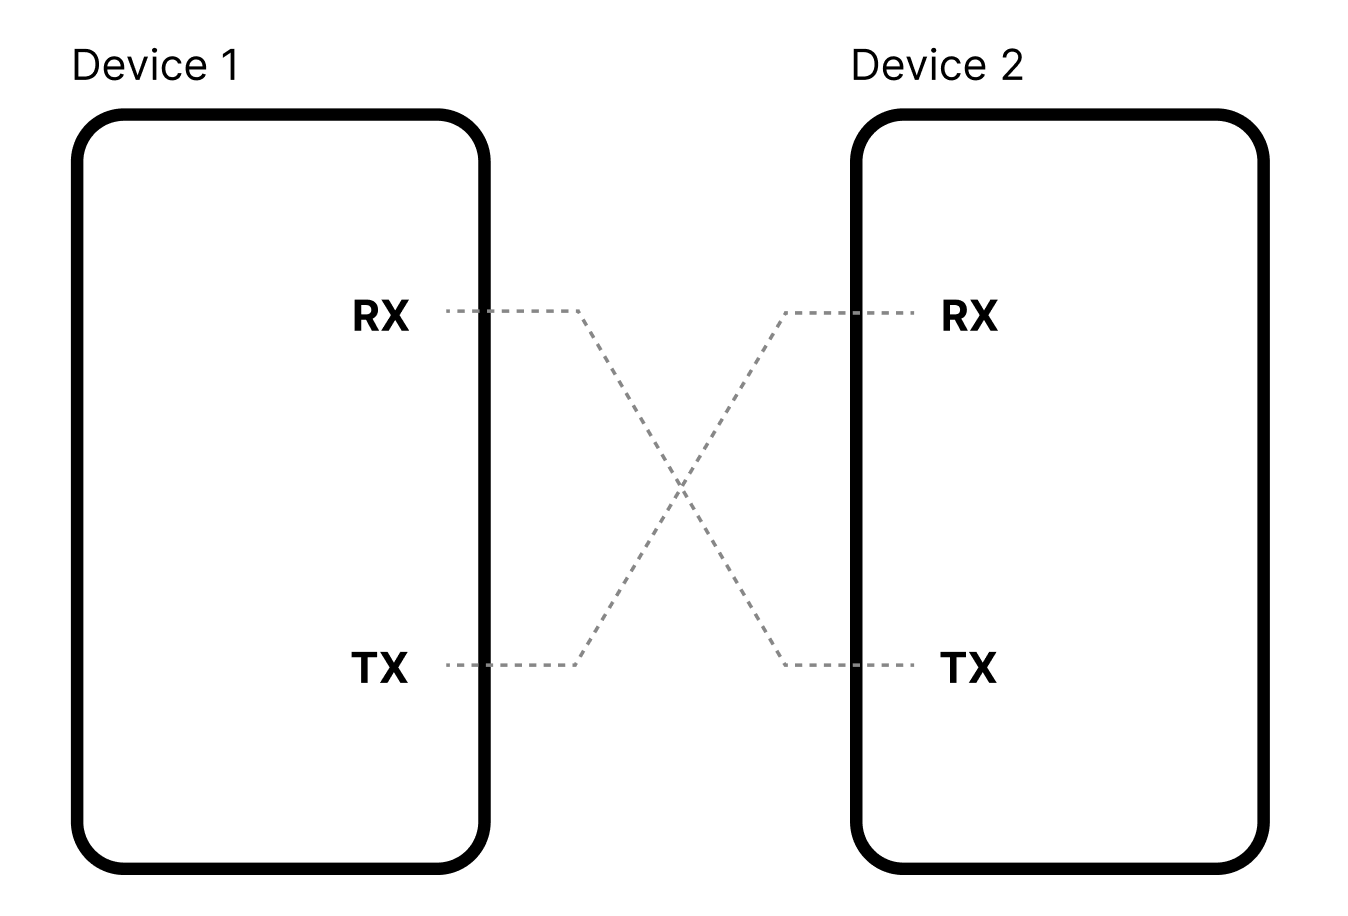
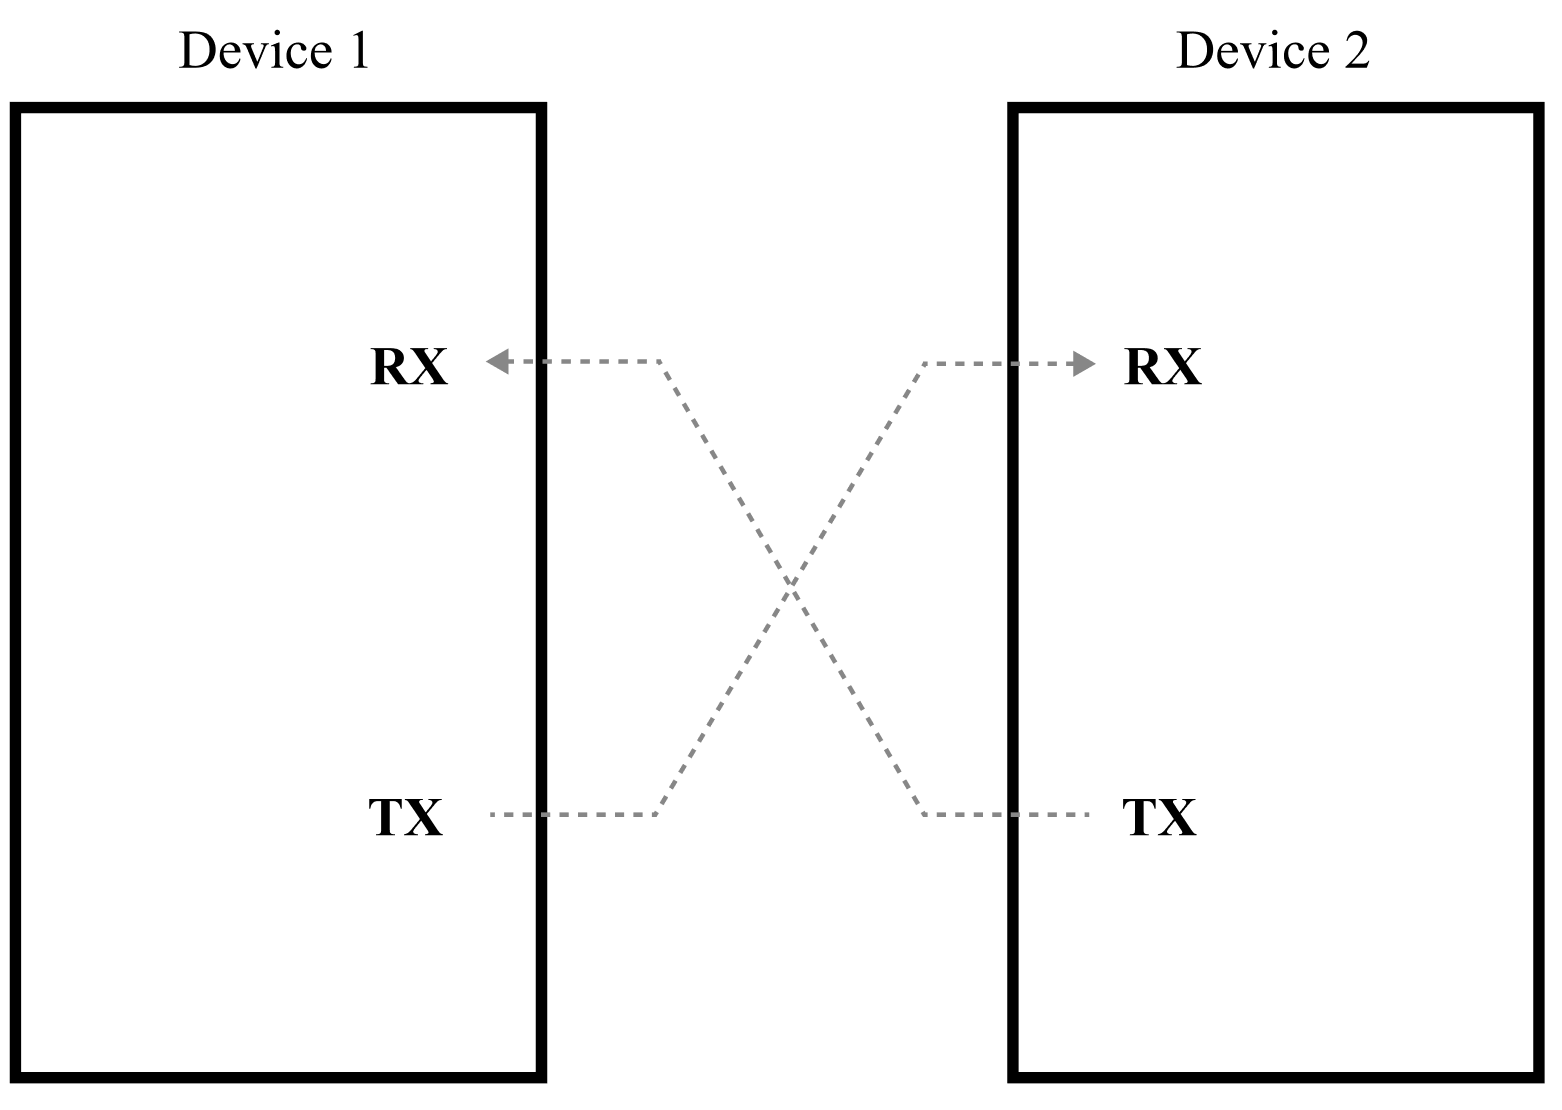
Updates from Overleaf

diff --git a/dissertation/l4proj.tex b/dissertation/l4proj.tex
@@ -28,7 +28,6 @@
 %==============================================================================
 %% ABSTRACT
 \begin{abstract}
-    \textbf{THIS IS UNFINISHED}
 
     The personal usage of remote embedded devices is a growing area in engineering allowing for anybody to get started building robotics systems at home or even develop skill sets in programming and electronic engineering. A big name in this scene is Arduino a product which allows hobbyists to build and design systems to suit personal project needs; The Espruino project takes this in a different direction by utilising a JavaScript interpreter which aims to bring remote embedded systems programming to the web. This project intends to improve the development experience of remote embedded devices by refining the process and allowing users to focus more on their ideas and less on the semantics required to implement them. To achieve this the project introduces many packages providing functionality such as easy device connection[ADD LINK], peer-to-peer[ADD LINK] connection for mobile device inputs to be used, and the refined syntax to allow developers to get started regardless of skill or prior knowledge with wide and detailed documentation to avoid confusion when developing. In addition to this to further ease development, a CLI tool has been developed to create projects preset with all the functionality a beginner user could need, setting anybody up for programming Espruino devices, an activity which had no clear direction before of how to be done. By utilising user studies throughout the project a variety of users from different experience levels have been considered during the development process allowing for the project to be as accessible as possible.
 
@@ -82,21 +81,36 @@ The area of remote embedded systems has seen significant growth in recent years 
 \\ \\
 An alternate solution to this is presented by Espruino devices, which make use of JavaScript, a language that is more accessible to a broader range of developers. The usage of JavaScript promotes learning a language which has a wide variety of use cases such as web development, machine learning and even mobile apps. Espruino presents a reduced entry barrier and eliminates the requirement to learn a less than beginner friendly low level language such as C/C++, which can be daunting for some and for most will not translate to other aspects of their coding career. This makes it easier for developers to commence with remote embedded systems and begin constructing their projects.
 \\ \\
-Even though using Espruino devices can tackle some of the issues linked to traditional remote embedded systems, it still gives a restricted comprehension of JavaScript and its fundamental technologies. This can result in a limited skill set that is not readily transferable to other areas of software engineering.
+Even though using Espruino devices can tackle some of the issues linked to traditional remote embedded systems, it still gives a restricted comprehension of JavaScript and its fundamental technologies as developers are not getting exposed to aspects of the language outside of the native language. This can result in a limited skill set that is not readily transferable to other areas of software engineering.
 \\ \\
-This project aims to tackle these challenges by providing developers with a cutting-edge JavaScript-based platform for building their remote embedded systems. By utilizing contemporary JavaScript, developers will gain a deeper understanding of the language and its features, as well as acquire in-demand skills that can be applied to other areas of software engineering.
+This project aims to tackle these challenges by providing developers with a modern JavaScript-based platform for building their remote embedded systems. By utilizing contemporary JavaScript, developers will gain a deeper understanding of the language and its features, as well as acquire in-demand skills that can be applied to other areas of software engineering.
 \\ \\
-This project aims to help prepare future programmers and software engineers for work within the embedded systems allowing them to achieve working systems as well as allowing for the development of in-demand skills through the usage of modern JavaScript with easy access to work with any modern JavaScript of their choice.
+This project aims to help prepare future programmers and software engineers for work within the embedded systems allowing them to achieve working systems as well as allowing for the development of in-demand skills through the usage of modern JavaScript with easy access to work with any modern JavaScript of their choice. By incorporating embedded device development into the learning process beginner programmers are able to engage with tangible creations whilst introducing them into the idea of bringing in other sectors of industry into their programming.
 
 \section{Aims}
 
 \text This effort will create a collection of packages aimed at lowering the threshold for individuals looking to get into programming in the remote embedded systems area, yet still offering benefits for experienced coders through its streamlining of the current Espruino implementation. Additionally, these modules are constructed with a strong emphasis on web technologies, providing both novice and seasoned developers with an opportunity to deepen their understanding of current web technologies while working on their embedded systems.
-\subsubsection{Goals}
-\begin{itemize}
-    \item Provide a platform for beginner programmers to easily get started with embedded systems programming.
-    \item \textbf{PUT MORE POINTS IN HERE AIM FOR AROUND 5}
-\end{itemize}
-
+\subsection{Goals}
+\text From the aims stated above the problem is broken down into the following focal points.
+\\
+\subsubsection{Beginner friendly platform} \hfill\\
+\text Provide a platform for beginner programmers to easily get started with embedded systems programming without advanced programmers being deterred.
+\\
+\subsubsection{Easy browser to device communication} \hfill\\
+\text Introduce the idea of browser to device communication enabling programmers to have further control over input to devices by allowing them to utilise devices such as mobile phones, laptops or tablets as means to control their devices even using the device as a compliment to the web applications.
+\\
+\subsubsection{Reduce development time} \hfill\\
+\text Allow developers to focus more on their ideas and less on the semantics of implementing them or navigating bad documentation or cryptic method naming schemes by following industry standard conventions and language specific rules alongside an in-depth and well populated documentation site.
+\\
+\subsubsection{Bring everything into one place} \hfill\\
+\text Remove the requirement for developers to worry about compatibility with third party dependencies by providing a feature rich ecosystem with easy extension for more experienced developers.
+\\
+\subsubsection{Easy creation sharing}\hfill\\
+\text Provide a service which allows developers to easily show off their creations; allow users to host their projects without cost, hassle or knowledge in web servers.
+\\
+\subsubsection{Flexibility in development style}\hfill\\
+\text Build an ecosystem which works regardless of how the developer decides to work by supporting package importing through all available avenues as well as documentation/demos which show off this functionality to allow for no confusion in the process.
+\\
 
 
 %==================================================================================================================================
@@ -107,39 +121,25 @@ This project aims to help prepare future programmers and software engineers for 
 Learning how to program is an increasingly popular avenue for young professionals in recent years due to the market demand for software engineers and appeal of working in a creative, challenging and constantly evolving field; because of this increase in desire to learn how to code many people are funneled into the following avenues each with their own advantages and drawbacks.
 
 \subsection{Formal Teaching of programming}
-Many students find themselves learning how to program for the first time during a degree at university.
+Many students find themselves learning how to program for the first time during a degree at university. Within the University of Glasgow the current method of teaching provides students with an intricate understanding of programming without a proper understanding of how programming results in an end software product. This approach to programming is aimed towards providing students with enough knowledge to understand the following course content such as algorithms and data structures.
 \begin{itemize}
-    \item how is programming currently taught at universities
-    \item very theoretical
-    \item little focus how the languages are used within a working environment
     \item Maybe a quick survey surrounding if students know how to turn their programming language knowledge into working products or how learning for example python relates to something like a web application.
 \end{itemize}
 
 
 \subsection{Code boot camps / online courses}
-This section is a maybe, its worth mentioning other avenues taken by programmers.
-\begin{itemize}
-    \item highly specialised, (front-end, back-end) 
-    \item focus on job ready skills.
-    \item heavily web focused.
-    \item avoids a lot of theoretical.
-    \item can result in people thinking they know how to program because theyve copied word for word from a tutorial.
-\end{itemize}
+On the other side of the spectrum many aspiring software engineers take the route of code "boot camps" such as \href{https://www.freecodecamp.org/}{freeCodeCamp} or \href{https://www.schoolofcode.co.uk/}{School of Code}. These intensive courses have the goal of producing work ready skills whilst avoiding theoretical skills that help programmers gather a better understanding of how the underlying programs work. These courses are usually highly specialised and web focuses meaning developers can potentially finish with a lack of transferable skills harming the ability for developers to transfer to new technologies and grow as a developer. An issue that comes with code boot camps are programmers who have followed tutorials word for word without absorbing the content itself resulting in people who believe they know how to develop systems without any real idea.
 
 \subsection{The job market}
-\begin{itemize}
-    \item What the market is looking for (maybe a linkedin study)
-    \item something about self learning
-\end{itemize}
+The job market for software engineers is an ever evolving market which rewards a developers skill to constantly learn on the job. Despite this languages such as JavaScript remain within the most used within the area within the \href{https://survey.stackoverflow.co/2022/#technology-most-popular-technologies}{Stack Overflow Developer Survey} we can see current trends. With an ever evolving job market it is important that anybody learning to program is able to understand the fundamentals of systems through the construction of systems whilst also understanding why these systems work at the lower level.
 
 \section{Espruino Devices}
 \text 
-The Espruino micro-controller provides an innovative solution for individuals seeking to materialise their electronics project aspirations. With a JavaScript interpreter and in-built amenities such as WiFi and Bluetooth, this device makes it effortless for individuals of diverse programming proficiency to dive in. The Espruino ecosystem caters to hobbyists and students eager to learn about electronics and programming. These micro-controllers can be blended seamlessly with other hardware and software systems, opening up a world of possibilities for electronics projects.
+The \href{https://www.espruino.com/}{Espruino micro-controller} provides an innovative solution for individuals seeking to materialise their electronics project aspirations. With a JavaScript interpreter and in-built amenities such as WiFi and Bluetooth, this device makes it effortless for individuals of diverse programming proficiency to dive in. The Espruino ecosystem caters to hobbyists and students eager to learn about electronics and programming. These micro-controllers can be blended seamlessly with other hardware and software systems, opening up a world of possibilities for electronics projects.
 
     
 \subsection{UART}
-\text Espruino devices communicate with the browser by utilising the UART protocol, or Universal Asynchronous Receiver/Transmitter, a widely used communication protocol in the world of micro-controllers and embedded systems. It doesn't require a fixed clock rate between the sender and receiver and instead uses start and stop bits for data transmission synchronization. \textbf{[EXPAND ON THIS AND INCLUDE MORE ABOUT HOW IT ACTUALLY WORKS]}
-
+\text Espruino devices communicate with the browser by utilising the UART protocol, or Universal Asynchronous Receiver/Transmitter, a widely used communication protocol in the world of micro-controllers and embedded systems. It doesn't require a fixed clock rate between the sender and receiver and instead uses start and stop bits for data transmission synchronization. UART works by utilising a transmission control line (TX) and a reception control line (RX); UART will begin by sending a start bit from TX to RX to initiate the start of a data transfer from here data is transferred bit by bit over a single data line starting with the least significant bit (LSB) and finishing with the most significant bit (MSB) following this a stop bit is sent to signal data transfer has finished. This is detailed in figure \ref{fig:UART}.
 
 \begin{figure}[!ht]
 \begin{center}
@@ -150,11 +150,8 @@ The Espruino micro-controller provides an innovative solution for individuals se
     \label{fig:UART}
 \end{figure}
 
-
-
-
 \subsection{WebBluetooth}
-\text UART connection with a web browser as mentioned above is facilitated via WebBluetooth. WebBluetooth is an aspect of the Web API that facilitates communication between web applications and Bluetooth Low Energy (BLE) devices. This technology allows web developers to control and access BLE devices using JavaScript, providing a streamlined and standardized approach.
+\text UART connection with a web browser as mentioned above is facilitated via \href{https://developer.mozilla.org/en-US/docs/Web/API/Web_Bluetooth_API}{WebBluetooth}. WebBluetooth is an aspect of the Web API that facilitates communication between web applications and Bluetooth Low Energy (BLE) devices. This technology allows web developers to control and access BLE devices using JavaScript, providing a streamlined and standardized approach.
 
 WebBluetooth represents a milestone in the integration of BLE devices into the web, as it offers a common platform for web developers to interact with these devices, regardless of their origin or operating system. It expands the possibilities for BLE devices, including the ability to control smart home technology or track fitness information through a web application.
 
@@ -163,17 +160,24 @@ WebBluetooth represents a milestone in the integration of BLE devices into the w
 Software packages are method of extending the functionality of a given language through externally written code. With the wide adoption of node.js in web development many package developers have adopted the UNIX philosophy of building clean, modular, transparent and robust code, \cite{TheArtOfUNIXProgramming}. This is achieved in modern web development through the Node Package Manager(NPM).
 
 \subsection{NPM}
-\text NPM is a tool utilized in the world of JavaScript programming to manage software packages. It serves as a centralized hub for individuals to quickly find, install, and handle an extensive collection of libraries and packages for their projects. NPM empowers developers to share their packages and work together on open-source initiatives. Due to its large repository of packages, NPM has become a must-have tool for contemporary JavaScript development.
+\href{https://www.npmjs.com/}{NPM} \text is a tool utilized in the world of JavaScript programming to manage software packages. It serves as a centralized hub for individuals to quickly find, install, and handle an extensive collection of libraries and packages for their projects. NPM empowers developers to share their packages and work together on open-source initiatives. Due to its large repository of packages, NPM has become a must-have tool for contemporary JavaScript development.
 
 \subsection{NPX}
-\text NPX is a tool for executing Node.js packages, including those installed through NPM (Node Package Manager). It allows users to run a package's binary without having to install it globally on their system. This is useful for testing packages or trying out new features without affecting other parts of the system. NPX also enables developers to run packages with specific versions, rather than relying on the globally installed version. It provides a convenient and efficient way to run packages, making it a popular tool in the Node.js ecosystem.
+\href{https://docs.npmjs.com/cli/v7/commands/npx}{NPX} \text is a tool for executing Node.js packages, including those installed through NPM (Node Package Manager). It allows users to run a package's binary without having to install it globally on their system. This is useful for testing packages or trying out new features without affecting other parts of the system. NPX also enables developers to run packages with specific versions, rather than relying on the globally installed version. It provides a convenient and efficient way to run packages, making it a popular tool in the Node.js ecosystem.
 
 \section{Device to device communication}
 
-Within web development the challenge of real time communication between devices is a tricky subject. Examples of well implemented real time communication systems are instant messaging services such as WhatsApp and Facebook Messenger or Voice over Internet Protocol (VoIP) services such as Zoom. These services all have a theme of utilising either Web-Sockets or Peer to Peer (P2P) connection.
+Within web development the challenge of real time communication between devices is a tricky subject. Examples of well implemented real time communication systems are instant messaging services such as WhatsApp and Facebook Messenger or \href{https://developer.mozilla.org/en-US/docs/Glossary/VoIP}{Voice over Internet Protocol (VoIP)} services such as Zoom. These services all have a theme of utilising either \href{https://developer.mozilla.org/en-US/docs/Web/API/WebSocket}{Web-Sockets} or \href{https://developer.mozilla.org/en-US/docs/Glossary/P2P}{Peer to Peer (P2P)} connection.
 
 \subsection{WebRTC}
-\text WebRTC (Web Real-Time Communication) is a freely available resource that enables web browsers and devices to communicate voice, video and data in real-time without the need for additional software. This technology has been engineered to operate on a variety of networks and platforms, resulting in low lag and excellent audio and video streaming quality for web-based communication. Popular uses for WebRTC include video conferencing, live streaming, online gaming, and file sharing. WebRTC stands out from the crowd by allowing users to connect with each other through a standardised Peer to Peer connection this skips the requirement of sending messages from a user to a server then back to a different user and instead just uses an external server for signalling a service that helps locate and connect the users. This method allows for a reduce in server cost due to lowered requests as they are being send directly browser to browser.
+\href{https://developer.mozilla.org/en-US/docs/Web/API/WebRTC_API}{WebRTC (Web Real-Time Communication)} \text is a freely available resource that enables web browsers and devices to communicate voice, video and data in real-time without the need for additional software. This technology has been engineered to operate on a variety of networks and platforms, resulting in low lag and excellent audio and video streaming quality for web-based communication. Popular uses for WebRTC include video conferencing, live streaming, online gaming, and file sharing. WebRTC stands out from the crowd by allowing users to connect with each other through a standardised Peer to Peer connection this skips the requirement of sending messages from a user to a server then back to a different user and instead just uses an external server for signalling a service that helps locate and connect the users. This method allows for a reduce in server cost due to lowered requests as they are being send directly browser to browser.
+
+\begin{figure}[!ht]
+    \centering
+    \includegraphics[width=5cm]{dissertation/images/web-rtc-diagram.png}
+    \caption{WebRTC}
+    \label{fig:webRTC}
+\end{figure}
 
 \section{Open Source}
 \text Open source pertains to a licensing model for software that enables the public to view and modify the source code. It is developed and maintained by a community of contributors, rather than by a single entity. The objective of open source is to promote collaboration, transparency, and innovation in software development, and to give users more control and choice over their software. Notable open source projects include the Linux operating system and the Python programming language.
@@ -182,10 +186,10 @@ Within web development the challenge of real time communication between devices 
 \text The Espruino project is an ambitious attempt at bringing embedded systems programming to the masses through an easy to get started with ecosystem which takes advantage of many in house tools to provide the best experience possible for the developers. These tools aim to not change the way we develop but extend upon it through the usage of the below tools we can see this approach.
 
 \subsection{Espruino JavaScript language}
-The Espruino native language is an extension of the standard JavaScript library introducing embedded systems specific keywords such as \textit{SetWatch} and pin manipulation through the syntax \textit{PIN.method()}. The addition of these keywords allow developers to interact and control embedded devices in a manor akin to alternatives such as Arduino or Micro Python. This extension of of the language transforms JavaScript into a capable systems programming language aimed at Espruino micro controller boards.
+The \href{https://www.espruino.com/Reference#top}{Espruino native language} is an extension of the standard JavaScript library introducing embedded systems specific keywords such as \textit{SetWatch} and pin manipulation through the syntax \textit{PIN.method()}. The addition of these keywords allow developers to interact and control embedded devices in a manor akin to alternatives such as Arduino or Micro Python. This extension of of the language transforms JavaScript into a capable systems programming language aimed at Espruino micro controller boards.
 
 \subsection{Espruino IDE}
-The Espruino IDE provides an online platform for developers to get started working with their espruino devices without the need to set up any local environments. This web application provides many features such as device console logs and programming directly onto the device all round providing a perfect learning environment for new programmers whilst also acting as an ideal debugging environment for more experienced developers.
+The \href{https://www.espruino.com/ide/}{Espruino IDE} provides an online platform for developers to get started working with their espruino devices without the need to set up any local environments. This web application provides many features such as device console logs and programming directly onto the device all round providing a perfect learning environment for new programmers whilst also acting as an ideal debugging environment for more experienced developers.
 
 \begin{figure}[!ht]
     \centering
@@ -370,7 +374,7 @@ Integrating a peer-to-peer connection without utilising a self built and hosted 
 \begin{figure}[!ht]
     
 \begin{center}
-\begin{tabular}{|p{2.5cm}|p{5.5cm}|p{5.5cm}|}
+\begin{tabular}{|p{2.25cm}|p{5.25cm}|p{5.25cm}|}
  \hline
  \multicolumn{3}{|c|}{Packages} \\
  \hline
@@ -394,7 +398,7 @@ CLI Tool &  \href{https://github.com/espruino-tools/create-espruino-app}{espruin
 
 \begin{figure}[!ht]
 \begin{center}
-\begin{tabular}{|p{2.5cm}|p{5.5cm}|p{5.5cm}|}
+\begin{tabular}{|p{2.25cm}|p{5.25cm}|p{5.25cm}|}
 \hline
 \multicolumn{3}{|c|}{Web Apps} \\
  \hline
@@ -446,7 +450,7 @@ Small introduction of the packages and why this approach was taken:
     \item provides a simplified approach to developing with espruino devices, \textbf{EXPLAIN WHY}.
 \end{itemize}
 \\
-\textbf{What is impressive about it.}
+\textbf{What is impressive about it.} 
 \begin{itemize}
     \item removes any confusion by incorporating everything you need into a single import based on device.
     \item allows for easy development of new devices via inheritance incorporating all basic functionality of the device (lightweight as well).
